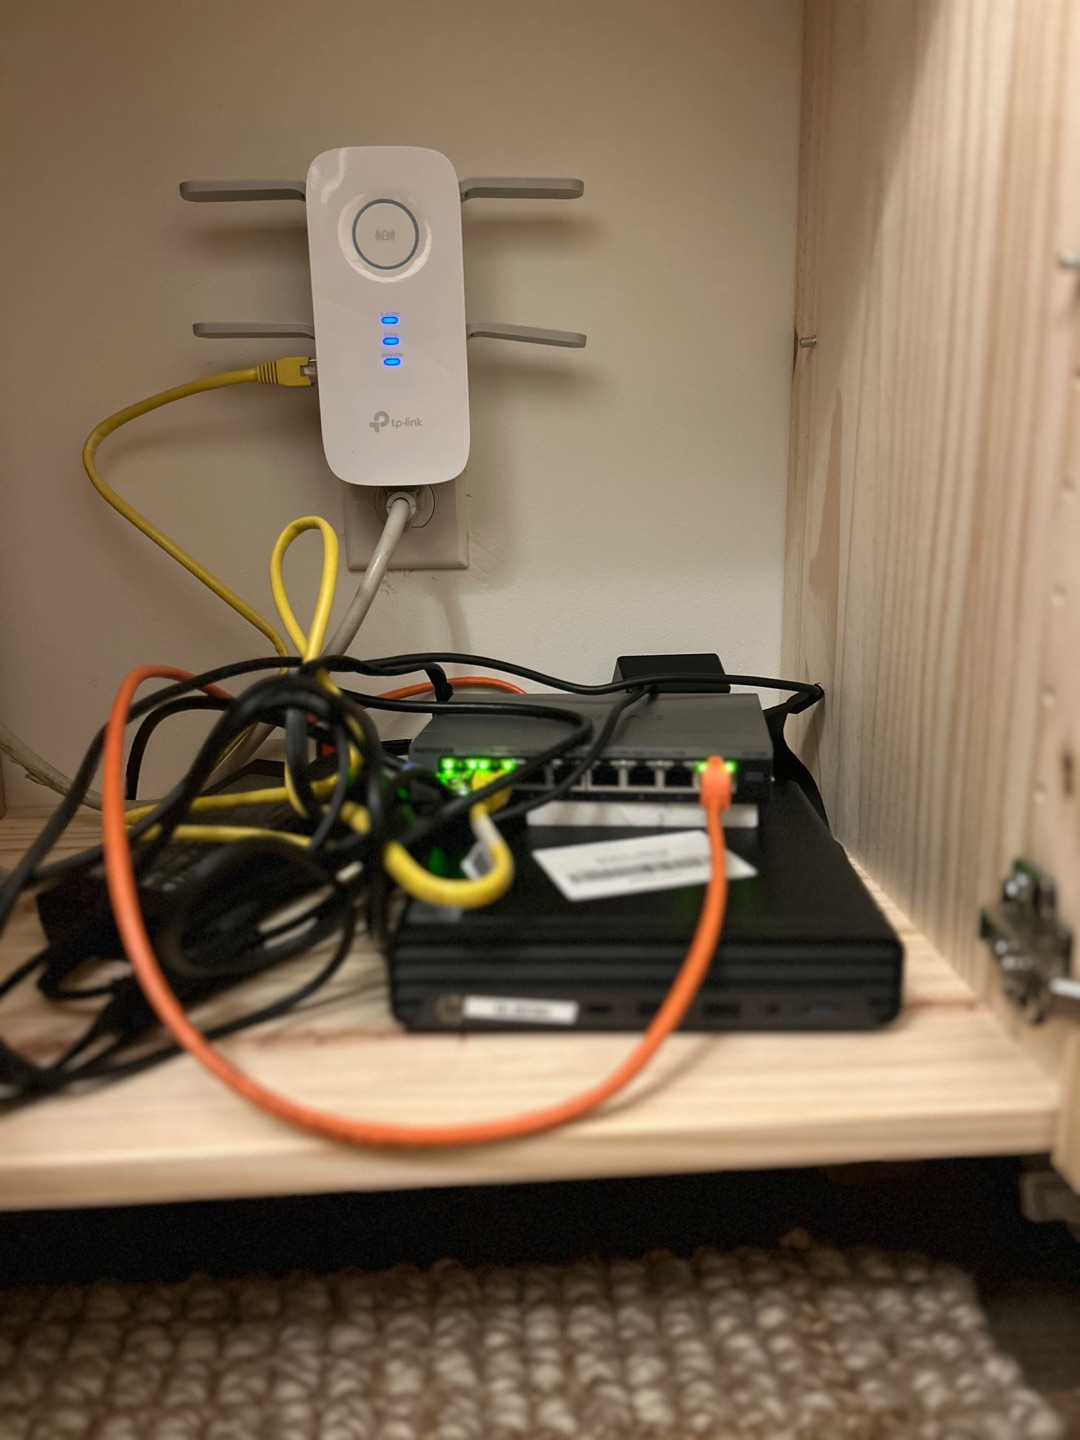
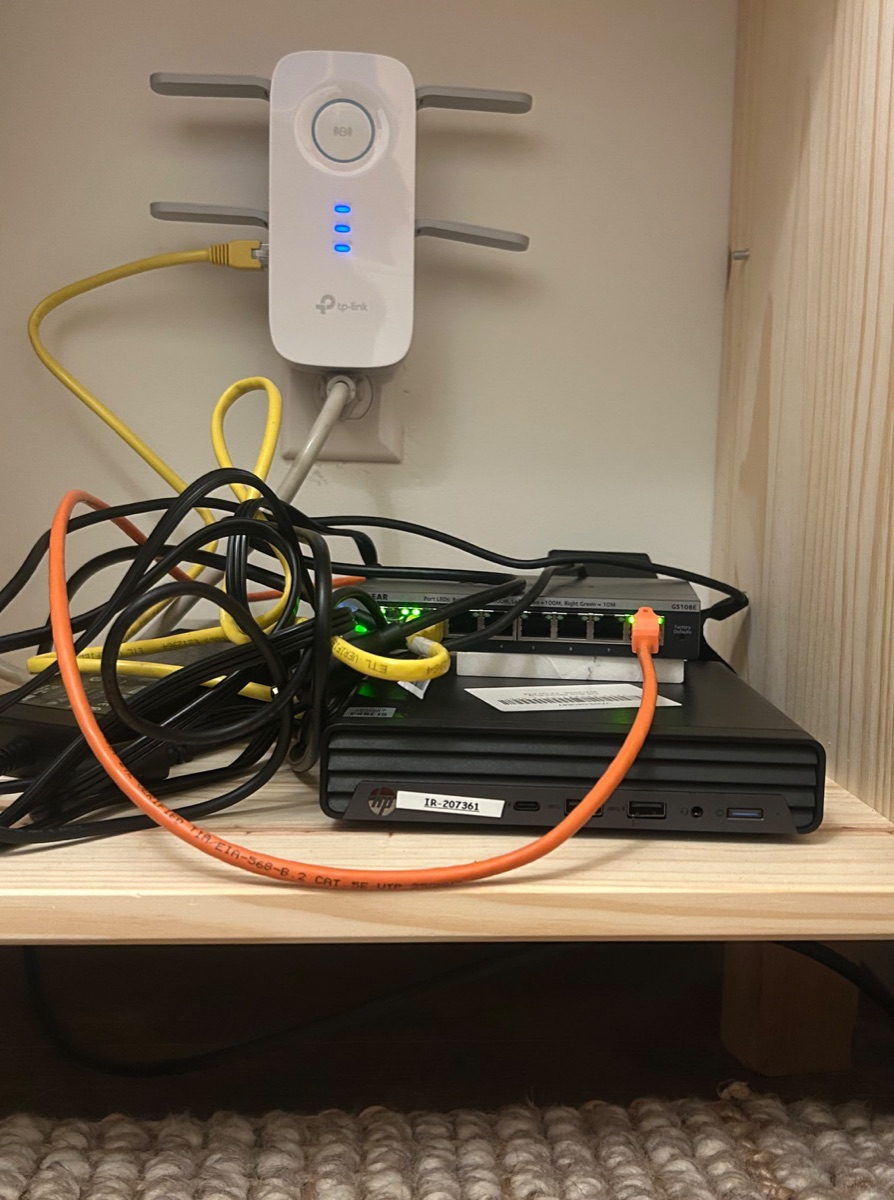
talk: a closer photo of the lab

diff --git a/docs/talks/2026-11-machinesdancing/slides.md b/docs/talks/2026-11-machinesdancing/slides.md
@@ -425,7 +425,7 @@ runs on hemlock; the demos are live.
 
 <div class="grid grid-cols-[auto_1fr] gap-10 items-center">
 
-<img src="/thelab.jpg" class="h-[400px] rounded shadow" alt="hemlock, a mini PC with a switch on top and a nest of cables, in a cabinet">
+<img src="/thelab.jpg" class="h-[400px] rounded shadow" alt="hemlock, a mini PC with a switch on top, a nest of cables, and a Wi-Fi extender on the wall above">
 
 <div>
 
